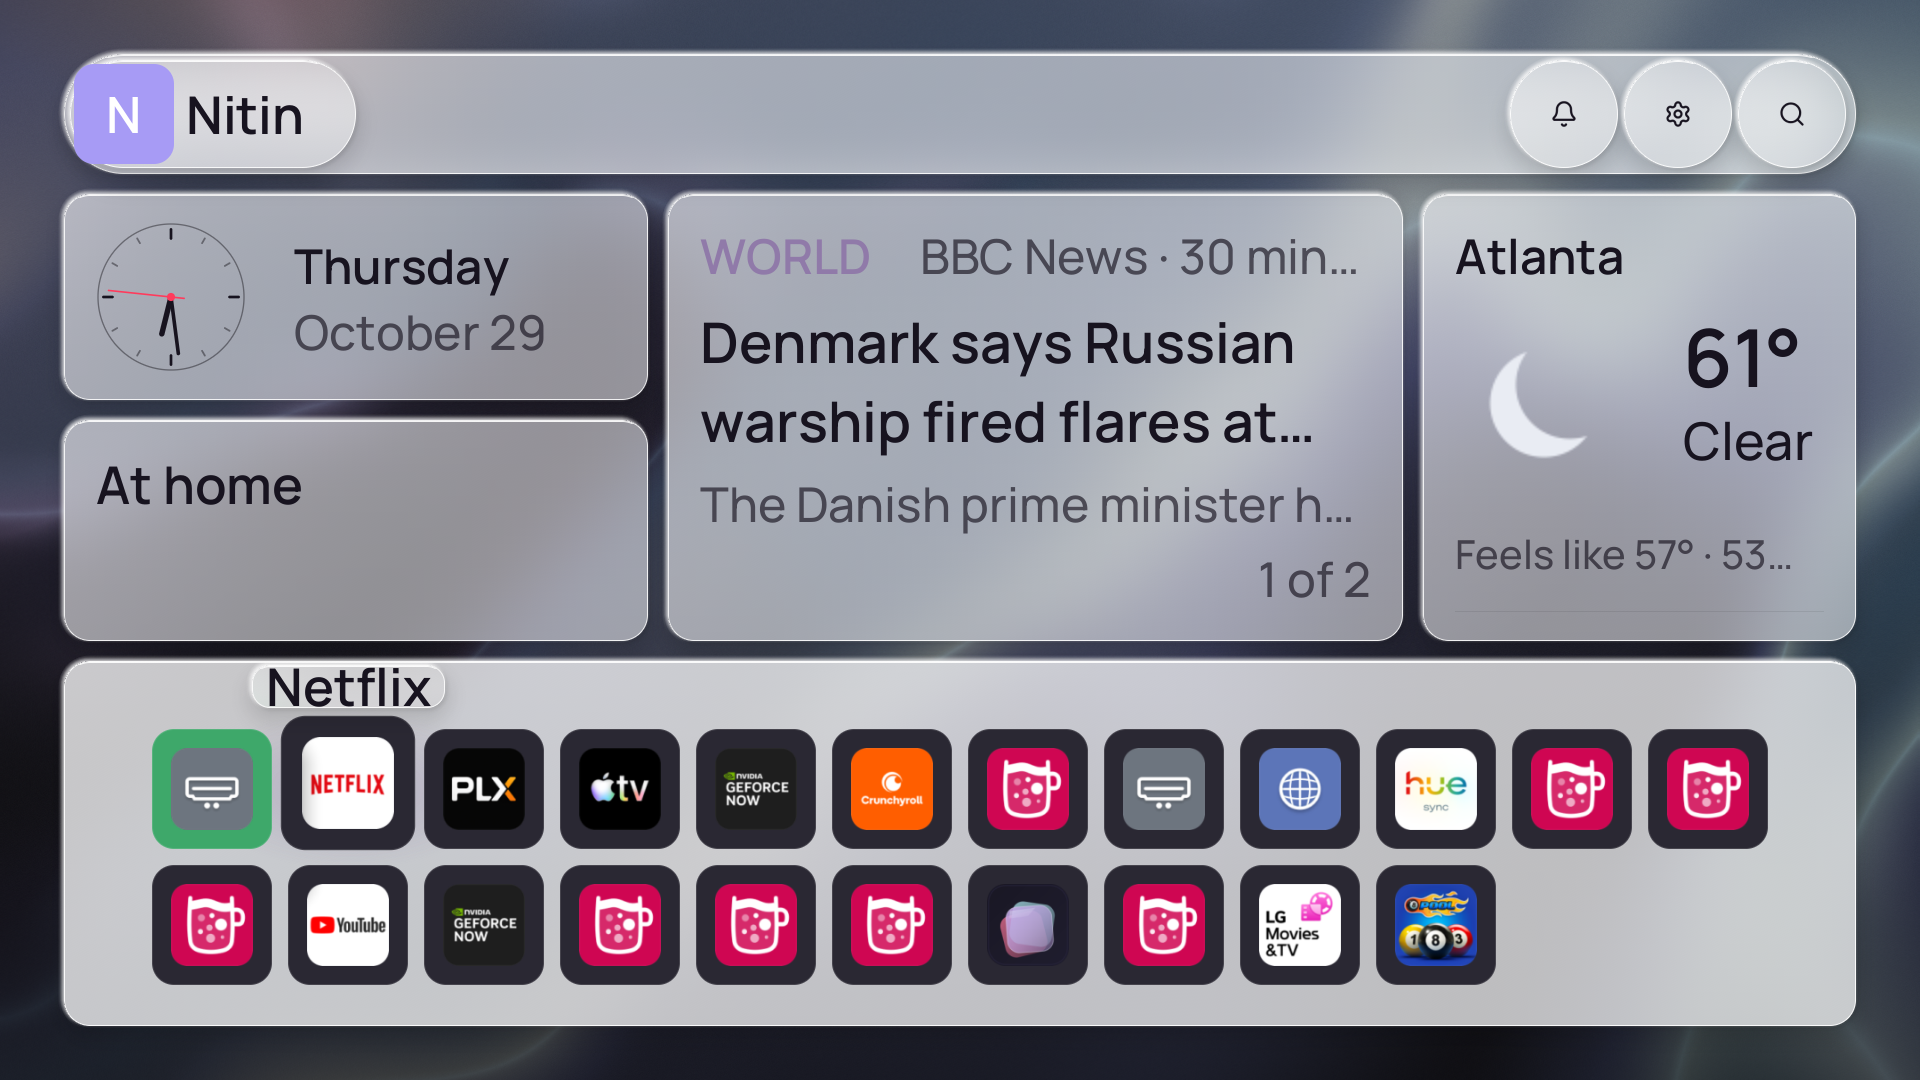
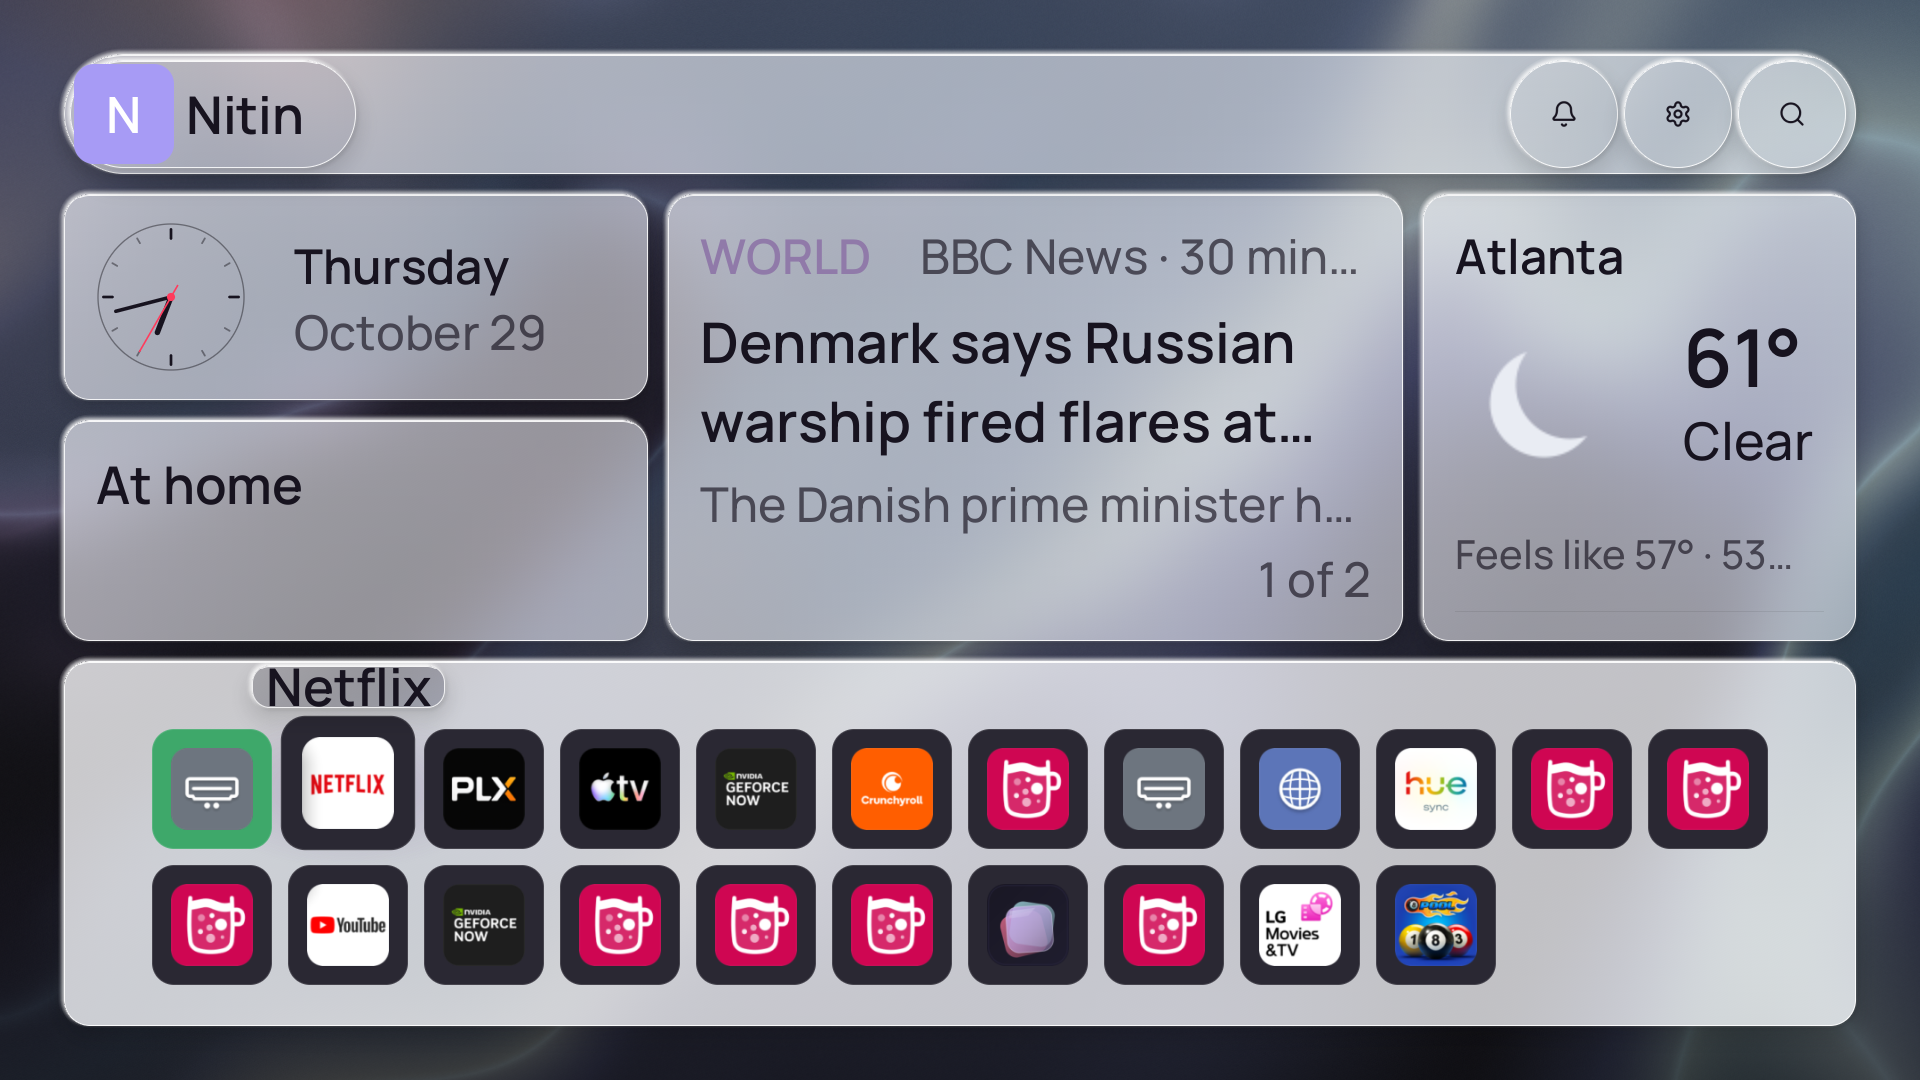
Rust Home: card glass Clear (the QML Home's translucent glass, default) or Frosted (theme cardGlass, Settings > Home & look), the name pill kept inside the dock at the row ends

diff --git a/rustui/ui/src/home/surface.rs b/rustui/ui/src/home/surface.rs
@@ -51,7 +51,13 @@ pub fn glass_of(kit: &Kit, kind: PaneKind, h: f32, lit: bool, over_video: bool) 
     let state = ControlState { focus_visible: lit, ..ControlState::default() };
     let pair = kit.ui.look.material(role, &state, MaterialContext::Independent);
     let base = pane::glass(kit, kind, h, over_video);
-    let backdrop = if over_video || kit.tier == ui::lucent::material::MaterialTier::T0 { Backdrop::None } else { Backdrop::Cached { radius: kit.tokens.blur } };
+    // The `clear` card glass shows the picture's own blur where Home has made it (the QML Home's look: the glass samples the picture, the page's scrim is not
+    // under it); `frosted` shows the page below, scrim and all.
+    let backdrop = match (over_video || kit.tier == ui::lucent::material::MaterialTier::T0, kit.wall_backdrop, kind) {
+        (true, ..) => Backdrop::None,
+        (false, Some(id), PaneKind::Card | PaneKind::Pill | PaneKind::Strip | PaneKind::Control) => Backdrop::Prepared { id },
+        _ => Backdrop::Cached { radius: kit.tokens.blur },
+    };
     let tint = if lit { kit.ui.look.colour(PaletteRole::GlassRaised) } else { kit.ui.look.colour(PaletteRole::Glass) };
     let edge = if lit { kit.tokens.extra(kit.mode).glass_focus_edge } else { kit.ui.look.colour(PaletteRole::Edge) };
     Glass { corner_radius: base.corner_radius, tint: if over_video { base.tint } else { tint }, edge, backdrop, saturation: kit.tokens.saturation, ..pair.rest }
@@ -191,6 +197,8 @@ pub struct HomeSurface {
     veil: Option<ShapeLayer>,
     generation: u64,
     text_scale: f32,
+    /// The wallpaper's prepared backdrop the glass was made with.
+    backdrop: Option<compositor_protocol::BackdropId>,
     last_focus: Option<Id>,
     last_hover: Option<Id>,
     layout_key: String,
@@ -226,6 +234,7 @@ impl HomeSurface {
             veil: None,
             generation: 0,
             text_scale: 0.0,
+            backdrop: None,
             last_focus: None,
             last_hover: None,
             layout_key: String::new(),
@@ -267,12 +276,15 @@ impl HomeSurface {
     /// Draws Home as the model has it. Returns whether something of Home is on screen.
     pub fn apply(&mut self, kit: &mut Kit, engine: &mut Engine, home: &mut Home, now: u64) -> std::io::Result<bool> {
         let now_ns = Self::now_ns();
-        let rebuild = self.generation != kit.generation() || self.text_scale != kit.text_scale;
+        // the wallpaper's own backdrop for the clear glass: made when the theme asks and the picture is up, given back when it does not
+        self.wall.sync_backdrop(kit, &home.theme, self.data.as_deref(), self.module.as_deref());
+        let rebuild = self.generation != kit.generation() || self.text_scale != kit.text_scale || self.backdrop != kit.wall_backdrop;
         home.set_text_scale(kit.text_scale);
         if rebuild {
             self.teardown(engine);
             self.generation = kit.generation();
             self.text_scale = kit.text_scale;
+            self.backdrop = kit.wall_backdrop;
         }
         // the wallpaper: loaded when the theme names it, sampled for the material and the accent
         if let Some(s) = self.wall.load(kit, &home.theme, self.data.as_deref(), self.module.as_deref())? {
@@ -772,12 +784,14 @@ impl HomeSurface {
                     d.pill_for = Some(id);
                     let ink = kit.ui.look.ink();
                     let style = role_style(kit, TypeRole::Label, Some(Weight::SemiBold), ink, Align::Centre);
-                    let w = (width_of(kit, style, &title) + 26.0).round().max(40.0);
+                    // the name stays on the dock's card: a long one is cut to its width and a pill under a tile at the end of a row is moved in
+                    const EDGE: f32 = 8.0;
+                    let w = (width_of(kit, style, &title) + 26.0).round().max(40.0).min(d.frame.w - 2.0 * EDGE);
                     let above = home.dock.label_above(i);
                     let lift = home.dock.tile as f32 * (kit.tokens.focus.tile_scale - 1.0) / 2.0;
                     // on whole pixels (the lift is 7.2 at a 120 tile): a run between pixels is sampled soft
                     let y = (if above { sy as f32 - lift - 4.0 - 10.0 - 43.0 } else { sy as f32 + home.dock.tile as f32 + lift - 4.0 + 10.0 } - scroll).round();
-                    let x = (cx - w / 2.0).round();
+                    let x = (cx - w / 2.0).round().clamp(EDGE, (d.frame.w - EDGE - w).max(EDGE));
                     let scene = kit.ui.scene.clone();
                     let (pill, text) = scene.adopting(&d.viewport, || {
                         let pill = kit.ui.scene.glass(w as u32, 43, Z_DOCK + 9, glass_of(kit, PaneKind::Control, 43.0, false, false), Props::at(x, y));
@@ -1009,8 +1023,16 @@ impl HomeSurface {
                 let k = 1.0 - top.3 as f32 / 255.0;
                 Rgba((top.0 as f32 + under.0 as f32 * k) as u8, (top.1 as f32 + under.1 as f32 * k) as u8, (top.2 as f32 + under.2 as f32 * k) as u8, 255)
             };
-            let dimmed = over(Rgba(canvas.0, canvas.1, canvas.2, 255), Rgba(0, 0, 0, (scrim * 255.0) as u8));
-            over(dimmed, kit.ui.look.colour(PaletteRole::Glass))
+            // The `clear` glass is the picture's own blur under the tint, with no scrim over it (as the QML Home's): a pane's colour is the tint over the
+            // picture, which is its mean grey here; `frosted` is the tint over the scrimmed canvas.
+            let under = match self.wall.sample.filter(|s| s.luma >= 0.0 && wallpaper::clear_glass(&home.theme)) {
+                Some(s) => {
+                    let g = (s.luma * 255.0).round() as u8;
+                    Rgba(g, g, g, 255)
+                }
+                None => over(Rgba(canvas.0, canvas.1, canvas.2, 255), Rgba(0, 0, 0, (scrim * 255.0) as u8)),
+            };
+            over(under, kit.ui.look.colour(PaletteRole::Glass))
         };
         if let Some(s) = &self.status {
             lint.panel("status", s.frame, paint, true);
@@ -1134,6 +1156,33 @@ mod tests {
     }
 
     #[test]
+    fn the_text_on_the_cards_passes_the_contrast_lint_with_the_clear_and_the_frosted_glass_over_the_darkest_and_the_lightest_pictures_each_material_takes() {
+        // (mode, the picture's mean luma): the clear glass keeps the accent words (the date, the news tag) at 3:1 up to a mean luma of 0.5; at 0.55 they read 2.85:1, which a text plate under those two words would mend (not built)
+        for (mode, luma) in [(Mode::Dark, 0.05), (Mode::Dark, 0.4), (Mode::Dark, 0.45), (Mode::Dark, 0.5), (Mode::Light, 0.61), (Mode::Light, 0.65)] {
+            for glass in ["clear", "frosted"] {
+                for scale in [1.0, 2.0] {
+                    let (h, mut kit) = testkit::kit_in(mode, scale);
+                    let mut engine = Engine::new(&kit).expect("an engine");
+                    let mut theme = lumatv_tokens::Tokens::shipped().json().clone();
+                    lumatv_tokens::merge(&mut theme, &json!({"cardGlass": glass}));
+                    let mut home = Home::new(theme, super::super::grid::shipped(), json!({}));
+                    fixtures(&mut home);
+                    let mut s = HomeSurface::new(1000);
+                    s.dirs(&testkit::module_dir(), std::path::Path::new("/nonexistent"));
+                    s.apply(&mut kit, &mut engine, &mut home, 2300).expect("Home drawn");
+                    s.wall.sample = Some(wallpaper::Sample { luma, tint: None });
+                    let lint = s.lint(&mut kit, &home);
+                    // the two accent words (today's date, the news tag) read under 3:1 on the clear glass over a mid-light picture (2.5 to 2.9): a text plate under just
+                    // those words is the mend, not built; every other word of Home passes
+                    let bad: Vec<String> = lint.findings().iter().filter(|f| f.subject != "clock.9" && f.subject != "news.0").map(|f| format!("{f:?}")).collect();
+                    assert!(bad.is_empty(), "{mode:?} luma {luma} {glass} at {scale}: {}", bad.join("\n"));
+                    std::mem::forget(h);
+                }
+            }
+        }
+    }
+
+    #[test]
     fn the_shipped_home_passes_the_layout_and_contrast_lint_at_both_text_sizes_in_both_materials() {
         for mode in [Mode::Dark, Mode::Light] {
             for scale in [1.0, 2.0] {
@@ -1249,6 +1298,48 @@ mod tests {
             Some(false)
         } else {
             None
+        }
+    }
+
+    #[test]
+    fn a_long_name_under_the_first_or_last_tile_of_a_row_stays_whole_on_the_docks_card_above_its_tile_at_both_text_sizes_and_looks() {
+        let long = "Homebrew Channel Updater and Friends";
+        let list: Vec<Value> = std::iter::once(json!({"id": "com.webos.app.discovery", "title": long, "unmovable": true, "icon": ""}))
+            .chain((1..13).map(|n| json!({"id": format!("app{n}"), "title": if n == 11 { long.to_owned() } else { format!("App {n}") }, "icon": "", "iconColor": "#101010"})))
+            .collect();
+        for mode in [Mode::Dark, Mode::Light] {
+            for scale in [1.0, 2.0] {
+                for (last, key) in [(false, "left"), (true, "right")] {
+                    let (h, mut kit) = testkit::kit_in(mode, scale);
+                    let mut engine = Engine::new(&kit).expect("an engine");
+                    let mut home = Home::new(lumatv_tokens::Tokens::shipped().json().clone(), super::super::grid::shipped(), json!({}));
+                    fixtures(&mut home);
+                    home.update(&Input::Luna { tag: model::LP_TAG, payload: json!({"launchPoints": list}) }, 1500);
+                    for (i, k) in ["down", "down", "down"].into_iter().enumerate() {
+                        press(&mut home, k, 2000 + i as u64 * 100);
+                    }
+                    for n in 0..14 {
+                        press(&mut home, key, 2400 + n * 100);
+                    }
+                    let cols = home.dock.cols();
+                    let want = if last { cols - 1 } else { 0 };
+                    assert_eq!(home.dock.index, want, "{mode:?} {scale}: the end of the row");
+                    home.update(&Input::Tick, 4000);
+                    let mut s = HomeSurface::new(1000);
+                    s.dirs(&testkit::module_dir(), std::path::Path::new("/nonexistent"));
+                    s.apply(&mut kit, &mut engine, &mut home, 4000).expect("Home drawn");
+                    let d = s.dock.as_ref().unwrap();
+                    assert!(d.pill_for.is_some(), "{mode:?} {scale}: the name is up");
+                    let f = d.pill_text.frame();
+                    assert!(f.x >= 0.0 && f.x + f.w <= d.frame.w, "{mode:?} {scale} last={last}: {f:?} on a card {} wide", d.frame.w);
+                    assert_eq!(pill_side(&s, &home), Some(true), "{mode:?} {scale} last={last}: above the top row's tile");
+                    // the words are linted too: the layout lint finds a clipped or crowded name
+                    let lint = s.lint(&mut kit, &home);
+                    let bad: Vec<String> = lint.findings().iter().filter(|f| f.subject.contains("dock.pill")).map(|f| format!("{f:?}")).collect();
+                    assert!(bad.is_empty(), "{mode:?} {scale} last={last}: {}", bad.join("\n"));
+                    std::mem::forget(h);
+                }
+            }
         }
     }
 

diff --git a/rustui/ui/src/home/wallpaper.rs b/rustui/ui/src/home/wallpaper.rs
@@ -12,7 +12,7 @@ use crate::kit::picture::{self, Fit, Picture};
 use compositor_protocol::{Fill, Props, Rgba, Shape, Wallpaper as WallSpec, WallpaperKind};
 use serde_json::{Value, json};
 use std::path::{Path, PathBuf};
-use ui::scene::{ShapeLayer, WallpaperLayer};
+use ui::scene::{ImageLayer, ShapeLayer, WallpaperLayer};
 
 pub const W: u32 = 1920;
 pub const H: u32 = 1080;
@@ -142,10 +142,19 @@ pub fn scrim_of(theme: &Value, mode: ui::lucent::palette::Mode) -> [f32; 3] {
     [at(0), at(1), at(2)]
 }
 
+/// Whether the theme asks for the `clear` card glass (the default) and not `frosted`.
+pub fn clear_glass(theme: &Value) -> bool {
+    theme.get("cardGlass").and_then(Value::as_str) != Some("frosted")
+}
+
 /// The scrim the Silk wallpaper's shader applies by itself, at the top, the middle and the bottom (`SILK_SCRIM` in `rustui/render/src/wallpapers.rs`).
 pub const SILK_SCRIM: [f32; 3] = [0.10, 0.18, 0.46];
 
 pub struct WallpaperSurface {
+    /// The prepared set of the plain picture (the `clear` card glass), then the plain picture it captures, then the Silk layer: dropped in this order.
+    backdrop: Option<ui::PreparedBackdrop>,
+    plain: Option<ImageLayer>,
+    plain_hidden: bool,
     layer: Option<WallpaperLayer>,
     scrim_top: Option<ShapeLayer>,
     scrim_bottom: Option<ShapeLayer>,
@@ -161,7 +170,7 @@ pub struct WallpaperSurface {
 
 impl WallpaperSurface {
     pub fn new(z: i32) -> Self {
-        Self { layer: None, scrim_top: None, scrim_bottom: None, z, source: String::new(), sample: None, hole: false, generation: 0, spec: None, shown: false }
+        Self { backdrop: None, plain: None, plain_hidden: false, layer: None, scrim_top: None, scrim_bottom: None, z, source: String::new(), sample: None, hole: false, generation: 0, spec: None, shown: false }
     }
 
     /// The motion the theme asks for: Silk at the theme's fps and amplitude, still when the motion is off or reduced.
@@ -189,6 +198,7 @@ impl WallpaperSurface {
             return Ok(None);
         }
         self.source = source;
+        self.drop_backdrop(kit);
         self.layer = None;
         let Some(path) = path else {
             self.sample = None;
@@ -209,6 +219,52 @@ impl WallpaperSurface {
         self.sample = Some(s);
         self.shown = !self.hole;
         Ok(Some(s))
+    }
+
+    fn drop_backdrop(&mut self, kit: &mut Kit) {
+        kit.wall_backdrop = None;
+        self.backdrop = None;
+        self.plain = None;
+        self.plain_hidden = false;
+    }
+
+    /// The glass over the picture, as the person chose it (theme `cardGlass`): `clear` (the default) shows the picture alone, blurred, as the QML Home's
+    /// Glass does (it samples the graded wallpaper, and the scrim over the page is not under it); `frosted` shows the page below the glass, scrim and
+    /// all, which is the more opaque look. The picture's blur is a prepared set of a plain copy of it, made once; the copy is on the screen (under the
+    /// wallpaper that covers it) until the compositor has made the set, then hidden, and the glass is told only when the set can be shown.
+    pub fn sync_backdrop(&mut self, kit: &mut Kit, theme: &Value, data_dir: Option<&Path>, module_dir: Option<&Path>) {
+        let want = clear_glass(theme) && kit.tier != ui::lucent::material::MaterialTier::T0 && self.layer.is_some();
+        if !want {
+            if self.backdrop.is_some() {
+                self.drop_backdrop(kit);
+            }
+            return;
+        }
+        if self.backdrop.is_none() {
+            let Some(path) = path_of(theme, data_dir, module_dir) else { return };
+            let Ok(bytes) = std::fs::read(&path) else { return };
+            let Ok(pic) = picture::decode(&bytes) else { return };
+            let fitted = pic.fitted(W, H, Fit::Cover);
+            let on = Props::at(0.0, 0.0);
+            let Ok(mut plain) = kit.ui.scene.image(W, H, self.z - 1, on) else { return };
+            plain.pixels_mut().copy_from_slice(&fitted.rgba);
+            plain.damage(None);
+            let spec = ui::BackdropSpec { wallpaper: Some(plain.id()), plates: Vec::new(), radius: kit.tokens.blur, downsample: 4 };
+            let Ok(set) = kit.ui.scene.prepare_backdrop(&spec) else { return };
+            set.request_refresh(ui::ContentGeneration(1));
+            self.backdrop = Some(set);
+            self.plain = Some(plain);
+            self.plain_hidden = false;
+        }
+        if let (Some(set), Some(plain)) = (&self.backdrop, &self.plain)
+            && set.ready().is_some()
+        {
+            if !self.plain_hidden {
+                plain.set(Props { opacity: 0.0, visible: false, ..Props::at(0.0, 0.0) });
+                self.plain_hidden = true;
+            }
+            kit.wall_backdrop = Some(set.wire_id());
+        }
     }
 
     /// The scrim for the mode, made again when the look changes.

diff --git a/rustui/tokens/src/lib.rs b/rustui/tokens/src/lib.rs
@@ -147,6 +147,8 @@ pub struct Tokens {
     pub motion: Motion,
     pub blur: f32,
     pub saturation: f32,
+    /// Theme `cardGlass`: `clear` (the QML Home's translucent glass, the default) or `frosted` (the glass over the page, scrim and all, which is more opaque).
+    pub clear_glass: bool,
 }
 
 /// A QML colour (`#RRGGBB` or `#AARRGGBB`) as a straight colour.
@@ -329,6 +331,7 @@ impl Tokens {
             motion,
             blur: f(json.get("blurRadius"), 30.0),
             saturation: 1.0 + f(json.get("saturation"), 0.25),
+            clear_glass: json.get("cardGlass").and_then(serde_json::Value::as_str) != Some("frosted"),
             json,
         }
     }
@@ -452,6 +455,9 @@ mod tests {
         assert_eq!(t.motion.rest_ms, 60);
         assert_eq!(t.blur, 30.0);
         assert_eq!(t.saturation, 1.25);
+        assert!(t.clear_glass, "the card glass is clear unless the theme says frosted");
+        assert!(!Tokens::from_json(&json!({"cardGlass": "frosted"})).clear_glass);
+        assert!(Tokens::from_json(&json!({"cardGlass": "milk"})).clear_glass, "a word it does not know is the default");
     }
 
     #[test]

diff --git a/rustui/ui/src/kit/mod.rs b/rustui/ui/src/kit/mod.rs
@@ -62,6 +62,9 @@ pub struct Kit {
     /// The Lucide icons of the module (`kit/icon.rs`); empty until the shell is given its module directory.
     pub icons: icon::Icons,
     generation: u64,
+    /// The blurred wallpaper picture alone, as a prepared set Home has made (the `clear` card glass): the glass of Home's panes shows it, not the page below
+    /// them, which has the scrim on it. The QML Home's glass samples the graded picture and not the scrim over it.
+    pub wall_backdrop: Option<compositor_protocol::BackdropId>,
 }
 
 impl Kit {
@@ -71,7 +74,7 @@ impl Kit {
         let look = tokens.look(mode, 1, tier, text_scale);
         let mut ui = Ui::with_look(scene, look);
         ui.enable_glyph_text().map_err(|e| std::io::Error::other(format!("{e}")))?;
-        let mut kit = Self { ui, tokens, mode, tier, text_scale, icons: icon::Icons::default(), generation: 1 };
+        let mut kit = Self { ui, tokens, mode, tier, text_scale, icons: icon::Icons::default(), generation: 1, wall_backdrop: None };
         kit.warm();
         Ok(kit)
     }

diff --git a/rustui/ui/src/settings/pages/home.rs b/rustui/ui/src/settings/pages/home.rs
@@ -68,6 +68,11 @@ fn rows(c: &Ctx) -> Vec<Row> {
     rows.push(theme_toggle(c, ("wallpapermotion", 0, "waves", "Wallpaper motion", ""), "wallpaperMotion.enabled", true));
     let depth = c.theme_str("depth.level").unwrap_or("normal");
     rows.push(theme_seg("depth", 0, "blend", "Glass depth", &["Flat", "Normal", "Deep"], DEPTHS.iter().position(|m| *m == depth), |i| json!({"depth": {"level": DEPTHS[i]}})));
+    let frosted = c.theme_str("cardGlass") == Some("frosted");
+    rows.push(
+        theme_seg("cardglass", 0, "layers", "Card glass", &["Clear", "Frosted"], Some(usize::from(frosted)), |i| json!({"cardGlass": if i == 1 { "frosted" } else { "clear" }}))
+            .help("Clear shows the wallpaper through the cards, as LG's own Home does. Frosted is the more opaque glass."),
+    );
     rows.push(theme_toggle(c, ("transitions", 0, "sparkles", "Smooth transitions", "Apps grow out of their tile and shrink back."), "motion.transitions", false));
     rows.push(popups_row(c));
 
